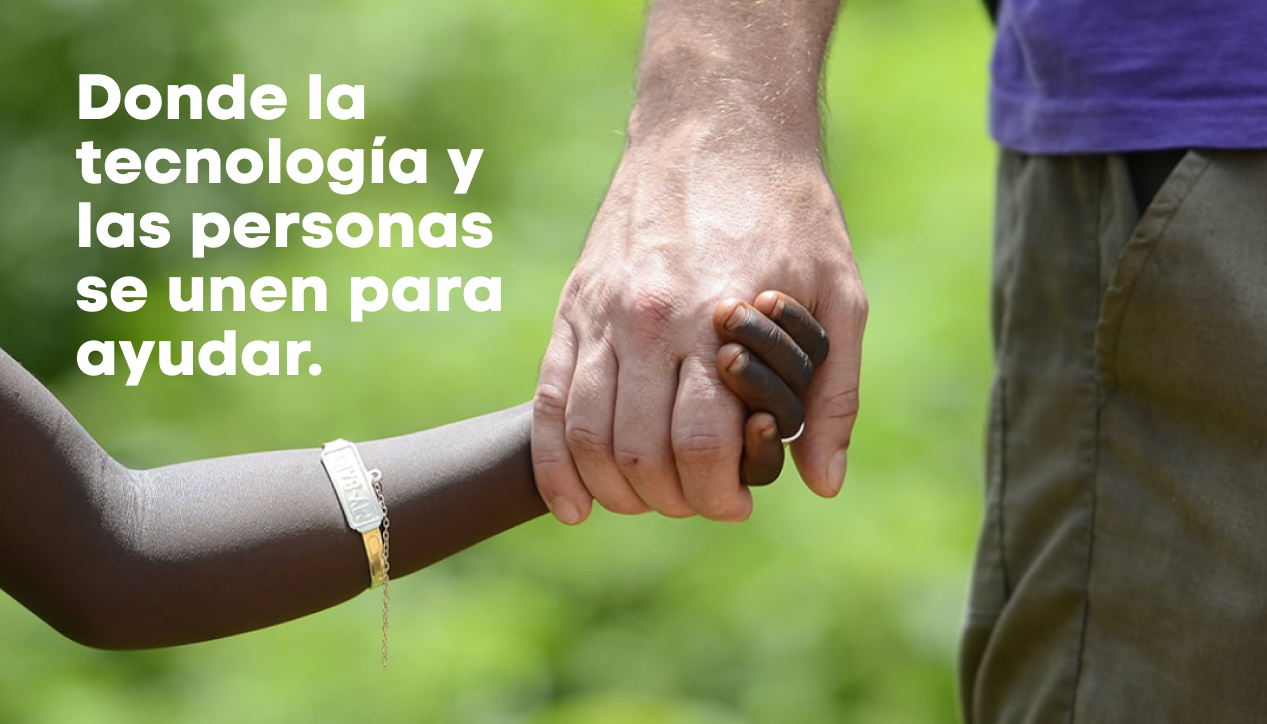
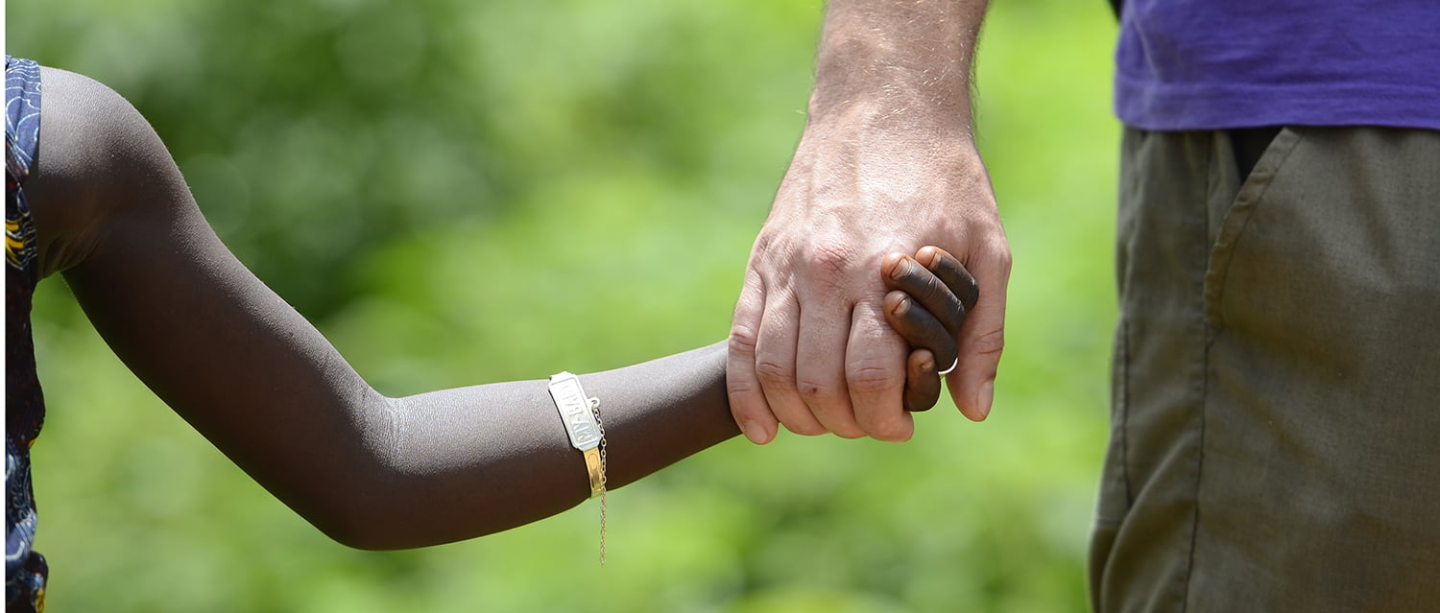
Home responsive medida 2560
Menos CARRUSEL Y ESTADISTICAS

diff --git a/src/Components/Home/Home.module.css b/src/Components/Home/Home.module.css
@@ -1,7 +1,7 @@
 
 .mainContainer {
 background-image: url('../img/Group 18.png');
-width: 70vw;
+width: 72.5vw;
 height: 70vh;
 background-position: center;
 background-repeat: no-repeat;
@@ -9,7 +9,18 @@ background-size: cover;
 color: white;
 margin-left: auto;
 margin-right: auto;
+display: flex;
+justify-content: flex-start;
 
+
+}
+
+.mainContainer h1 {
+    max-width: 450px;
+    font-size: 60px;
+    font-family: 'Code Next';
+    margin-left: 85px;
+    line-height: 4.5rem;
 }
 
 .btn1 {
@@ -20,7 +31,7 @@ margin-right: auto;
    position: absolute;
    width: 260px;
    height: 70px;
-   left: 364px;
+   left: 342px;
    top: 736px;
    background: #2EC4B6;
    border-radius: 20px;
@@ -47,11 +58,13 @@ margin-right: auto;
 .btn1:hover {
     background-color: white;
     color: #2EC4B6;
+    transition: all .5s;
 }
 
 .btn2:hover {
     background-color: white;
     color: #2EC4B6;
+    transition: all .5s;
 }
 .mainContainer div {
     margin-left: 50%;
@@ -90,6 +103,8 @@ margin-right: auto;
     background-image: url('../img/photo-1582826310241-0cd9cc92dbb1.jpg');
     background-image: linear-gradient(90deg, rgb(0 0 0 / 44%) 40%, rgba(0, 0, 0, 0) 4%, rgba(0, 0, 0, 0) 43.26%), url('../img/photo-1582826310241-0cd9cc92dbb1.jpg');
     background-size: cover;
+    margin-left: -29px;
+    width: 72.5vw;
     background-position: center;
     background-repeat: no-repeat;
     height: 300px;
@@ -113,6 +128,7 @@ margin-right: auto;
 .btnVolunteer:hover{
     background-color: white;
     color: #FF9F1C;
+    transition: all .5s;
 }
 
 .containerDonation {
@@ -124,6 +140,8 @@ margin-right: auto;
     height: 300px;
     color: white;
     text-align: center;
+    margin-left: -29px;
+    width: 72.5vw;
 }
 .containerDonationText {
     display: flex;
@@ -166,6 +184,7 @@ margin-right: auto;
 .btnDonation:hover{
     background-color: white;
     color: #FF9F1C;
+    transition: all .5s;
 }
 
 
@@ -173,9 +192,9 @@ margin-right: auto;
     display: flex;
     justify-content: center;    
     padding-left: 64px;
-    padding: 73px;
-    margin-left: 213px;
-    margin-right: 211px;
+    padding: 76px;
+    margin-left: 181px;
+    margin-right: 179px;
 }
 
 .container1{
@@ -281,3 +300,123 @@ a  {
     text-decoration: none;
 }
 
+/*RESPONSIVE*/
+
+@media screen and (max-width: 2560px) {
+    .mainContainer h1 {
+        max-width: 554px;
+        font-size: 70px;
+        line-height: 4.5rem;
+    }
+
+    .btn1 {
+        width: 300px;
+        height: 78px;
+        left: 442px;
+        top: 871px;
+        font-size: 30px;
+    }
+
+    .btn2 {
+        width: 300px;
+        height: 78px;
+        font-size: 30px;
+        left: 815px;
+        top: 871px;
+    }
+
+    .containerVolunteer {
+        height: 38vh;
+    }
+
+    .containerVolunteerText h3 {
+        margin-left: 149px;
+        font-size: 48px;
+    }
+
+    .containerVolunteerText p {
+        margin-left: 118px;
+        font-size: 24px;
+        max-width: 500px;
+        font-weight: lighter;
+        
+    }
+
+    .btnVolunteer {
+        margin-right: 1106px;
+        height: 61px;
+        width: 303px;
+        font-size: 30px;
+    }
+
+    .containerDonation {
+        height: 38vh;
+    }
+
+    .containerDonationText h3 {
+        font-size: 48px;
+        margin-right: 197px;        
+    }
+
+    .containerDonationText p {
+        font-size: 24px;
+        max-width: 500px;
+        margin-right: 105px;
+    }
+
+    .btnDonation {
+        height: 61px;
+    width: 303px;
+    font-size: 30px;
+    margin-right: 205px;
+    }
+
+    .containerQuestionAbout{
+        padding: 148px;
+        max-width: 1856px;
+        margin-left: 208px;
+    }
+
+    .container1 {
+        width: 800px;
+        height: 400px;
+    }
+
+    .container1 h3 {
+        font-size: 30px;
+
+    }
+
+    .container1 p {
+        font-size: 28px
+
+    }
+
+    .container1 button {
+        width: 324px;
+        height: 63px;
+        font-size: 28px;
+    }
+
+    .container2 button {
+        width: 324px;
+        height: 63px;
+        font-size: 26px;
+    }
+    
+    .container2 p {
+        font-size: 28px
+    }
+
+    .container2 h3 {
+        font-size: 30px;
+
+    }
+
+    .container2 {
+        width: 800px;
+        height: 400px;
+    }
+
+
+}

diff --git a/src/Components/Statistics/Statistics.jsx b/src/Components/Statistics/Statistics.jsx
@@ -49,14 +49,15 @@ export default function Statistics() {
     }, [])
     console.log(dolar)
     return (
-        <div>
+        <div className={Styles.bkg}>
             <Grid
                 container
-                mt={1}
+                // mt={1}
                 spacing={3}
                 direction="row"
                 justifyContent="center"
-                alignItems="center">
+                alignItems="center"
+                >
                 <Grid item xs={2}>
                     <Card border={2}>
                         <Item>
@@ -71,7 +72,7 @@ export default function Statistics() {
                         <Item>
                             <img className={Styles.img} src={donations} alt="statistics_proyects" />
                             <h1 className={Styles.h1}>${allDonationsAmount}</h1>
-                            <p className={Styles.p}>Toda la ayuda monetaria</p>
+                            <p className={Styles.p}>Cantidad de donaciones monetarias recibidas</p>
                         </Item>
                     </Card>
                 </Grid>
@@ -80,7 +81,7 @@ export default function Statistics() {
                         <Item>
                             <img className={Styles.img} src={qdonations} alt="statistics_proyects" />
                             <h1 className={Styles.h1}>{allDonations.length}</h1>
-                            <p className={Styles.p}>Cantidad de donaciones</p>
+                            <p className={Styles.p}>Cantidad de objetos donados en las sedes </p>
                         </Item>
                     </Card>
                 </Grid>
@@ -98,7 +99,7 @@ export default function Statistics() {
                         <Item>
                             <img className={Styles.img} src={projectCurso} alt="statistics_proyects" />
                             <h1 className={Styles.h1}>{allProjects.filter(p => p.status === "InProgress").length}</h1>
-                            <p className={Styles.p}>Cantidad de proyectos en curso</p>
+                            <p className={Styles.p}>Cantidad de proyectos votados en curso</p>
                         </Item>
                     </Card>
                 </Grid>

diff --git a/src/Components/Home/Home.jsx b/src/Components/Home/Home.jsx
@@ -2,7 +2,7 @@ import React from "react";
 import {Link} from 'react-router-dom';
 // import Button from '@mui/material/Button'
 // import Fab from '@mui/material/Fab';
-import NavigationIcon from '@mui/icons-material/Navigation';
+//import NavigationIcon from '@mui/icons-material/Navigation';
 import Carousel from "../Carrusel/Carousel"
 import s from './Home.module.css'
 import Statistics from "../Statistics/Statistics";
@@ -12,6 +12,7 @@ export default function Home() {
   return (
     <div>
        <section className={s.mainContainer}>
+          <h1>Donde la tecnología y las personas se unen para ayudar.</h1>
         <div className={s.btnContainer}>
           <Link to="/donaciones">
             {/* <Button
@@ -74,7 +75,7 @@ export default function Home() {
             <h3>CONOCE SOBRE NUESTROS CURSOS</h3>
             <p>En Coding To Help no solo nos gusta ayudar si no que también capacitar para que todos tengan oportunidades de seguir avanzando en su vida con la ayuda de profesionales en el área.</p>
             
-          <Link to="/aboutUs">
+          <Link to="/courses">
             {/* <Fab variant="extended" className={s.btn} aria-label="add">
               <NavigationIcon sx={{ mr: 1 }} />
               Sobre Nosotros

diff --git a/src/Components/Navbar/Navbar.module.css b/src/Components/Navbar/Navbar.module.css
@@ -63,8 +63,8 @@
     justify-content: space-evenly;
     margin-top: 5vh;
     margin-bottom: 5vh;
-    margin-left: 6vw;
-    *margin-right: 3vw;
+    margin-left: auto;
+    margin-right: auto;
     align-items: center;
     *padding-right: 4vw;
     max-width: 90%;
@@ -157,8 +157,9 @@
 
 .button:hover{
     background: linear-gradient(106.11deg, #2EC4B6 5%, #FFBF69 100%);
-    transition: 0.5s;
+    transition: all .5s;
 }
+
 .navbar>li:hover {
     border-bottom: 2px solid #FFBF69;
 }

diff --git a/src/Components/Statistics/Statistics.module.css b/src/Components/Statistics/Statistics.module.css
@@ -1,3 +1,13 @@
+.bkg{
+    margin-top: 80px;
+    background-color: #2EC4B6;
+    height: 50vh;
+    display: flex;
+    justify-items: center;
+    width: 100vw;
+}
+
+
 .img {
     width: 100px;
     height: 100px;
@@ -14,3 +24,4 @@
     letter-spacing: 1.5px;
     font-size: 22px;
 }
+
